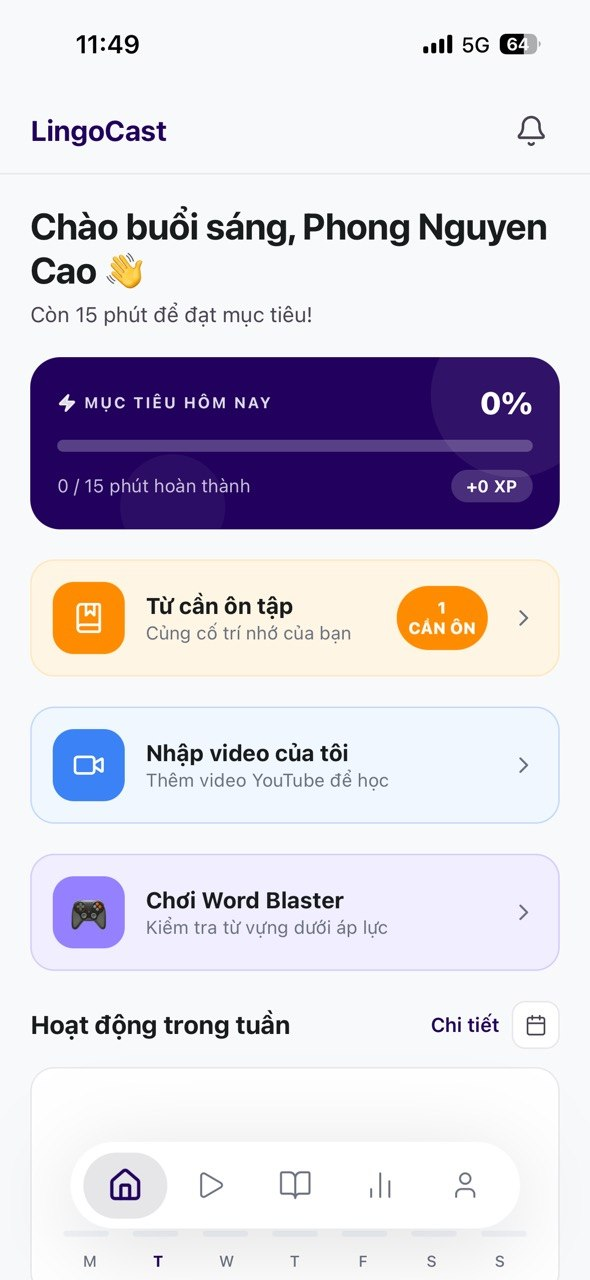
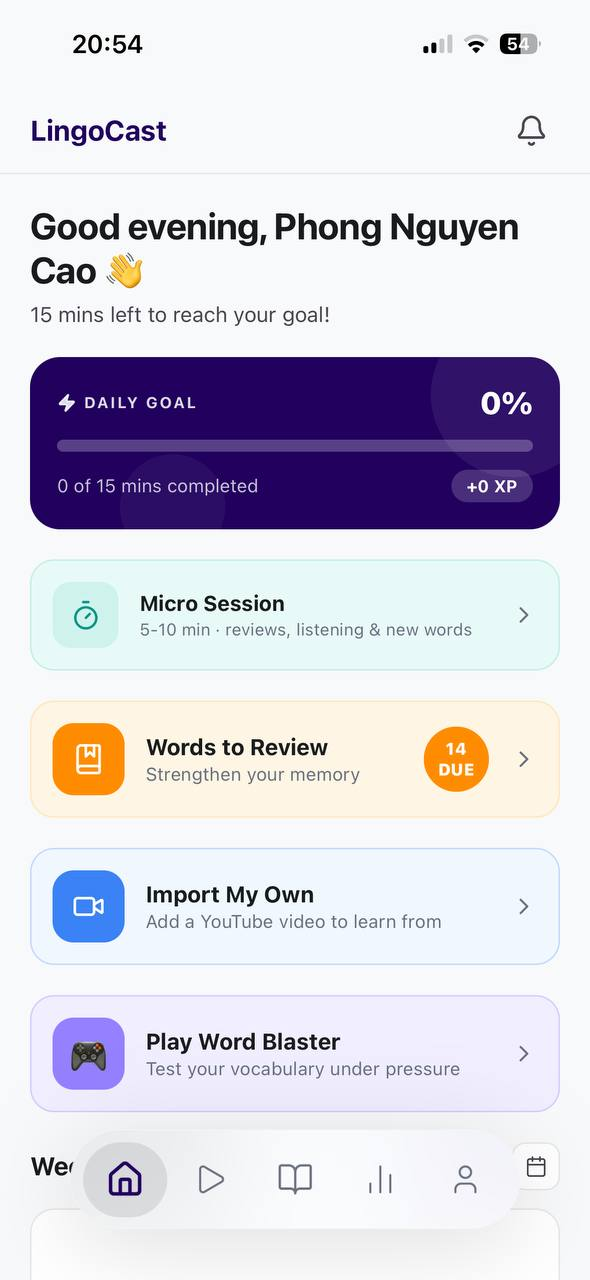
Update screenshot gallery to 10 real device shots
Replace the 3 placeholder screenshots with 10 real captures covering
home, practice library, flashcards, stats, exercises, import, profile,
and the paywall. Update VI/EN captions and the gallery intro copy to
match.

diff --git a/content/i18n.js b/content/i18n.js
@@ -36,9 +36,16 @@ export const vi = {
     ],
   },
   screenshots: [
-    ["Trình nghe & transcript", "Transcript chạy theo câu, chạm để tra từ ngay khi đang nghe."],
-    ["Sổ từ", "Từ đã lưu kèm ngữ cảnh câu gốc, ôn theo lịch lặp ngắt quãng."],
-    ["Thư viện ngoại tuyến", "Tập đã tải về kèm transcript, nghe trọn vẹn khi không có mạng."],
+    ["Trang chủ học tập", "Mục tiêu hằng ngày, buổi luyện nhanh và từ cần ôn, tất cả trong một màn hình."],
+    ["Trung tâm luyện tập", "Video thật theo chủ đề và trình độ, từ mới bắt đầu đến kinh doanh."],
+    ["Flashcard từ vựng", "Định nghĩa, ví dụ song ngữ và phát âm cho từng từ đã lưu."],
+    ["Thống kê tiến độ", "Theo dõi số từ đã thành thạo, xu hướng học và điểm mạnh từng kỹ năng."],
+    ["Tuỳ chỉnh luyện tập", "Chỉnh tốc độ phát, chế độ lặp và gợi ý transcript theo ý bạn."],
+    ["Nghe và gõ lại", "Nghe câu thật, gõ lại để luyện phản xạ nghe — sai thì thử lại ngay."],
+    ["Transcript song ngữ", "Chạm vào từ hoặc cụm từ để tra nghĩa và bản dịch ngay khi đang xem."],
+    ["Nhập video YouTube", "Dán một đường link YouTube, chọn chủ đề và trình độ để bắt đầu học."],
+    ["Hồ sơ cá nhân", "Theo dõi buổi học, từ vựng và độ chính xác, cùng các mục tiêu học tập."],
+    ["Gói LingoCast Pro", "So sánh tính năng Free và Pro, dùng thử 7 ngày miễn phí."],
   ],
   gallery: { missing: "CHƯA CÓ ẢNH", drop: "Copy ảnh vào", zoom: "Phóng to", close: "Đóng", prev: "Ảnh trước", next: "Ảnh sau" },
   images: {
@@ -59,7 +66,7 @@ export const vi = {
     shotsSub: "ẢNH CHỤP MÀN HÌNH // THIẾT BỊ THẬT",
     shotsTitle: "LingoCast trên điện thoại.",
     shotsDesc:
-      "Ba màn hình chính, chụp trực tiếp từ máy — trình nghe kèm transcript, sổ từ, và thư viện ngoại tuyến.",
+      "Mười màn hình chính, chụp trực tiếp từ máy — từ trang chủ, luyện tập, đến nâng cấp Pro.",
     shotsBadge: "CHỤP TỪ THIẾT BỊ THẬT",
     featuresSub: "TÍNH NĂNG // CÁCH HOẠT ĐỘNG",
     featuresTitle: "Sáu thứ làm nên việc học.",
@@ -320,9 +327,16 @@ export const en = {
     ],
   },
   screenshots: [
-    ["Player & transcript", "The transcript follows each sentence; tap a word to look it up mid-listen."],
-    ["Vocabulary book", "Saved words keep the sentence they came from, reviewed on a spaced-repetition schedule."],
-    ["Offline library", "Downloaded episodes with transcripts, fully usable without a connection."],
+    ["Home dashboard", "Daily goal, a quick micro-session, and words due for review — all on one screen."],
+    ["Practice library", "Real videos organized by topic and level, from beginner to business."],
+    ["Vocabulary flashcards", "Definitions, bilingual examples, and pronunciation for every saved word."],
+    ["Progress stats", "Track words mastered, activity trends, and strengths across each skill."],
+    ["Practice settings", "Adjust playback speed, loop mode, and transcript hints your way."],
+    ["Listen and type", "Hear a real sentence, type it back to train your ear — retry instantly if you miss."],
+    ["Bilingual transcript", "Tap any word or phrase for its meaning and translation while you watch."],
+    ["Import a YouTube video", "Paste a link, pick a topic and difficulty, and start learning from it."],
+    ["Your profile", "See sessions, vocabulary, and accuracy at a glance, plus your learning goals."],
+    ["LingoCast Pro", "Compare Free vs. Pro features, with a 7-day free trial."],
   ],
   gallery: { missing: "NO IMAGE YET", drop: "Drop an image at", zoom: "Zoom in", close: "Close", prev: "Previous image", next: "Next image" },
   images: {
@@ -343,7 +357,7 @@ export const en = {
     shotsSub: "SCREENSHOTS // REAL DEVICE",
     shotsTitle: "LingoCast on the phone.",
     shotsDesc:
-      "The three main screens, captured straight off the device — player with transcript, vocabulary book, and the offline library.",
+      "Ten screens, captured straight off the device — from the home dashboard to practicing to upgrading to Pro.",
     shotsBadge: "CAPTURED ON A REAL DEVICE",
     featuresSub: "FEATURES // HOW IT WORKS",
     featuresTitle: "Six things that make it stick.",

diff --git a/content/site.js b/content/site.js
@@ -26,6 +26,13 @@ export const SCREENSHOTS = [
   "/screenshots/01.jpg",
   "/screenshots/02.jpg",
   "/screenshots/03.jpg",
+  "/screenshots/04.jpg",
+  "/screenshots/05.jpg",
+  "/screenshots/06.jpg",
+  "/screenshots/07.jpg",
+  "/screenshots/08.jpg",
+  "/screenshots/09.jpg",
+  "/screenshots/10.jpg",
 ];
 
 // Ảnh minh hoạ từng trang — copy file vào public/images/<trang>/
